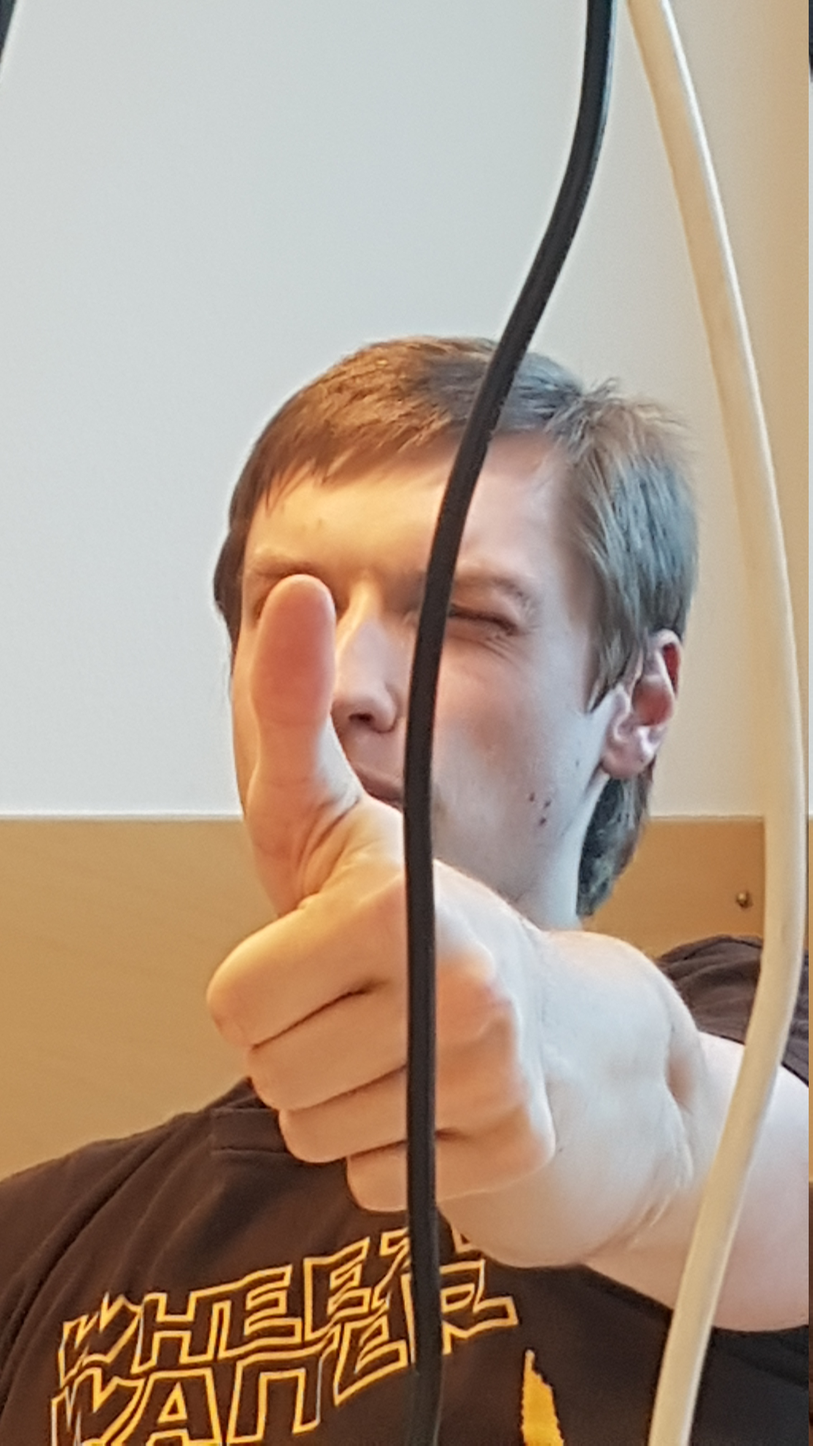
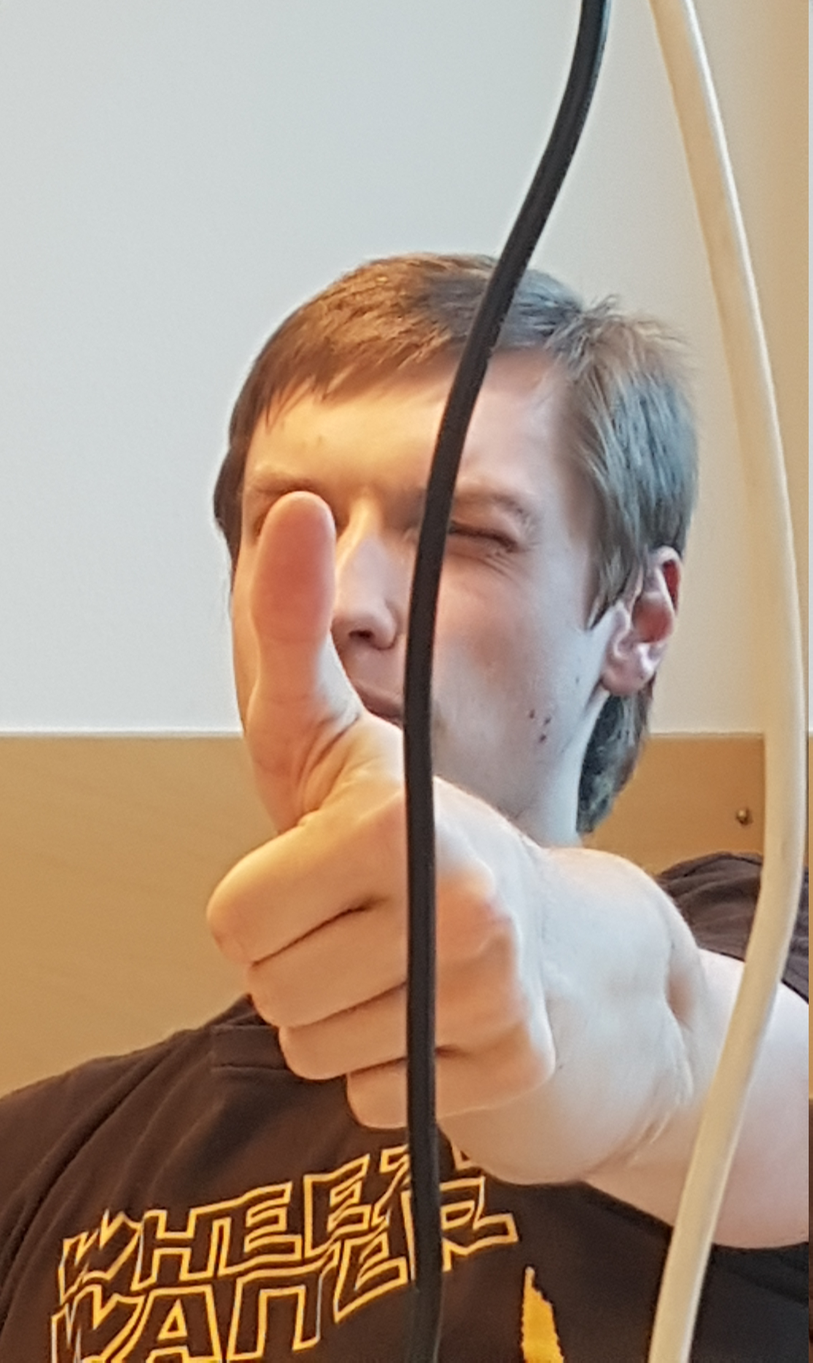
Add images, fix some ratios

diff --git a/script.js b/script.js
@@ -32,12 +32,14 @@ const RARES = [
 	{name : "DLude-Brage", image : "images/dlude_brage.jpg"},
 	{name : "Fotande Riddle", image : "images/fotande_riddle.jpg"},
 	{name : "Klappad Riddle", image : "images/klappad_riddle.jpg"},
+	{name: "Digital Kiren", image: "images/digital_kiren.jpg"},
 ];
 const LEGENDARIES = [
 	{
 		name : "Bild-på-bild på patet",
 		image : "images/bild_pa_bild_pa_patet.jpeg"
 	},
+	{ name: "Surprised Partyroot", image: "images/equeroot.jpg"}
 ];
 
 const TOTAL_CARDS = COMMONS.length + RARES.length + LEGENDARIES.length;
